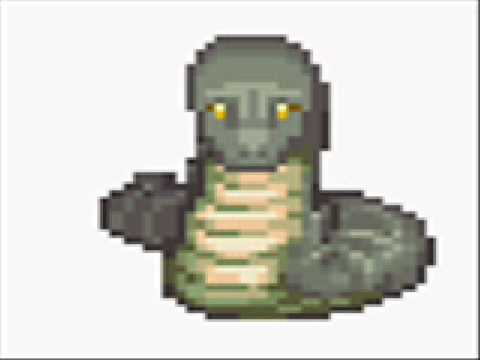
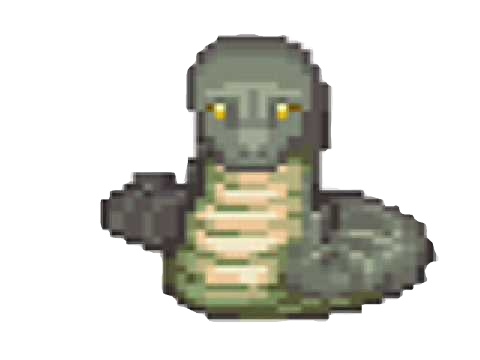
lol

diff --git a/css1/js/scripts.js b/css1/js/scripts.js
@@ -1,5 +1,8 @@
 var wiek_pabla = parseInt("11");
 
+const heightOutput = document.querySelector('#height');
+const widthOutput = document.querySelector('#width');
+
 const questions_table = [
     ["Ile lat ma Paweł?", wiek_pabla],
     ["Co jest najbardziej niebezpiecznym zwierzęciem w rzece?", "Wąż"],
@@ -20,26 +23,27 @@ function nextNumber() {
     }
     do {
         question_number = Math.random();
-        question_number = Math.floor(question_number * 10) % 4;
+        question_number = Math.floor(question_number * 10) % questions_table.length;
     } while (asked_questions.includes(question_number))
     last_question = question_number;
     return question_number;
 
 }
 
-function checkAnswer(answer){
+function checkAnswer(answer) {
     return answer.valueOf() == questions_table[last_question][1].valueOf();
 }
 
-function getAnswer(){
+function getAnswer() {
     var input = document.getElementById("Answer").innerText;
-    if (checkAnswer(input)){
+    if (checkAnswer(input)) {
         window.alert("You choose wisely!");
         wonsz_get_angery(-0.3);
         asked_questions.push(last_question);
         start();
+        sll
 
-    } else{
+    } else {
         window.alert("You choose poorly!");
         wonsz_get_angery(0.3);
     }
@@ -48,33 +52,60 @@ function getAnswer(){
 
 function wonsz_get_angery(angery) {
     wonsz_angery += angery;
-    var wonsz = document.getElementById("wonsz-jpg");
     document.getElementById("wonsz-jpg").style.opacity = wonsz_angery;
 
-    if (document.getElementById("wonsz-jpg").style.opacity >=1) {
+    if (document.getElementById("wonsz-jpg").style.opacity >= 1) {
         document.writeln("<h1> Przegrałeś! </h1>");
     }
 }
 
+function move_wonsz() {
+    var wonsz = document.getElementById("wonsz-jpg");
+    var pos = Math.random();
+    pos = Math.floor(pos * 10) % 4;
+    switch (pos) {
+        case 0:
+            wonsz.style.top = "51%";
+            break;
+        case 1:
+            wonsz.style.top = "49%";
+            break;
+        case 2:
+            wonsz.style.left = "51%";
+            break;
+        case 3:
+            wonsz.style.left = "49%";
+            break;
+    }
+    wonsz_get_angery(0.003);
+}
 
 function parseAnswer() {
-  document.getElementById("wonszButton").addEventListener("click", getAnswer);
+    document.getElementById("wonszButton").addEventListener("click", getAnswer);
 }
 
 function start() {
-  var question = questions_table[nextNumber()][0];
-  var elem = document.getElementById("question").innerHTML = question;
+    var question = questions_table[nextNumber()][0];
+    var elem = document.getElementById("question").innerHTML = question;
 }
 
 function answer() {
-  var ans = window.prompt("Podaj odpowiedź!");
-  if (ans != null) {
-    document.getElementById("Answer").innerHTML = ans;
-  }
+    var ans = window.prompt("Podaj odpowiedź!");
+    if (ans != null) {
+        document.getElementById("Answer").innerHTML = ans;
+    }
+}
+
+function sleep(milliseconds) {
+    const date = Date.now();
+    let currentDate = null;
+    do {
+        currentDate = Date.now();
+    } while (currentDate - date < milliseconds);
 }
 
 function hello() {
-  window.alert("Spotkałeś węża! Aby wąż nie był niebezpieczny musisz odpowiedzieć na kilka zagadek!")
+    window.alert("Spotkałeś węża! Aby wąż nie był niebezpieczny musisz odpowiedzieć na kilka zagadek!")
 }
 
 function nieKlikaj() {
@@ -83,3 +114,4 @@ function nieKlikaj() {
 }
 
 hello();
+window.addEventListener("resize", move_wonsz);

diff --git a/css1/views/lab6.html b/css1/views/lab6.html
@@ -20,8 +20,6 @@
     <button id="wonszButton" type="button" onclick="parseAnswer()">Prześlij odpowiedź!</button><br>
     <button id="noclick" type="button" onclick="nieKlikaj()">Nie klikaj!</button><br>
 </div>
-<img id="wonsz-jpg" src="../img/rzeczny.jpg" alt="wonsz rzeczny">
-<label for="angry-wonsz"><b>Jak niebezpieczny jest wonsz:</b></label>
-<meter id="angry-wonsz" value="1" min="0" max="10"></meter><br>
+<img id="wonsz-jpg" src="../img/rzeczny.png" alt="wonsz rzeczny">
   </body>
 </html>
